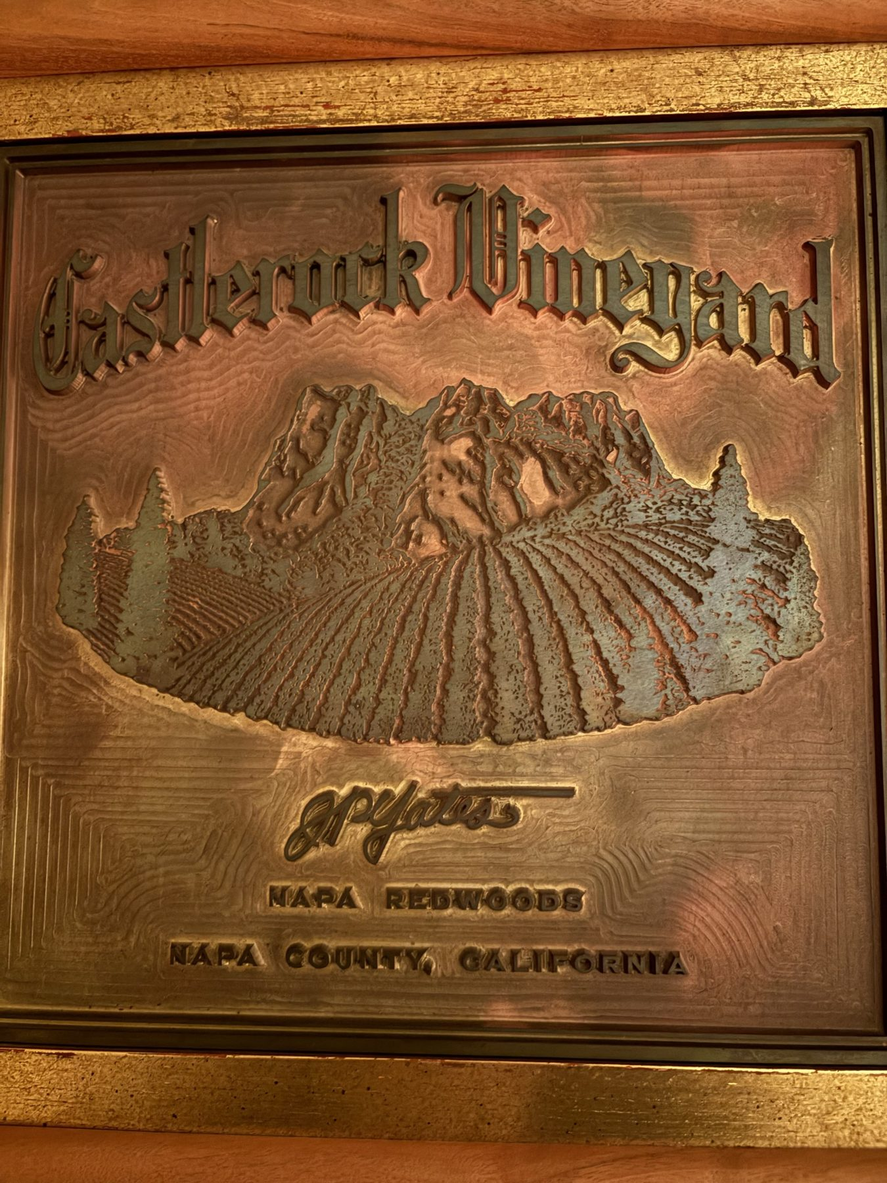
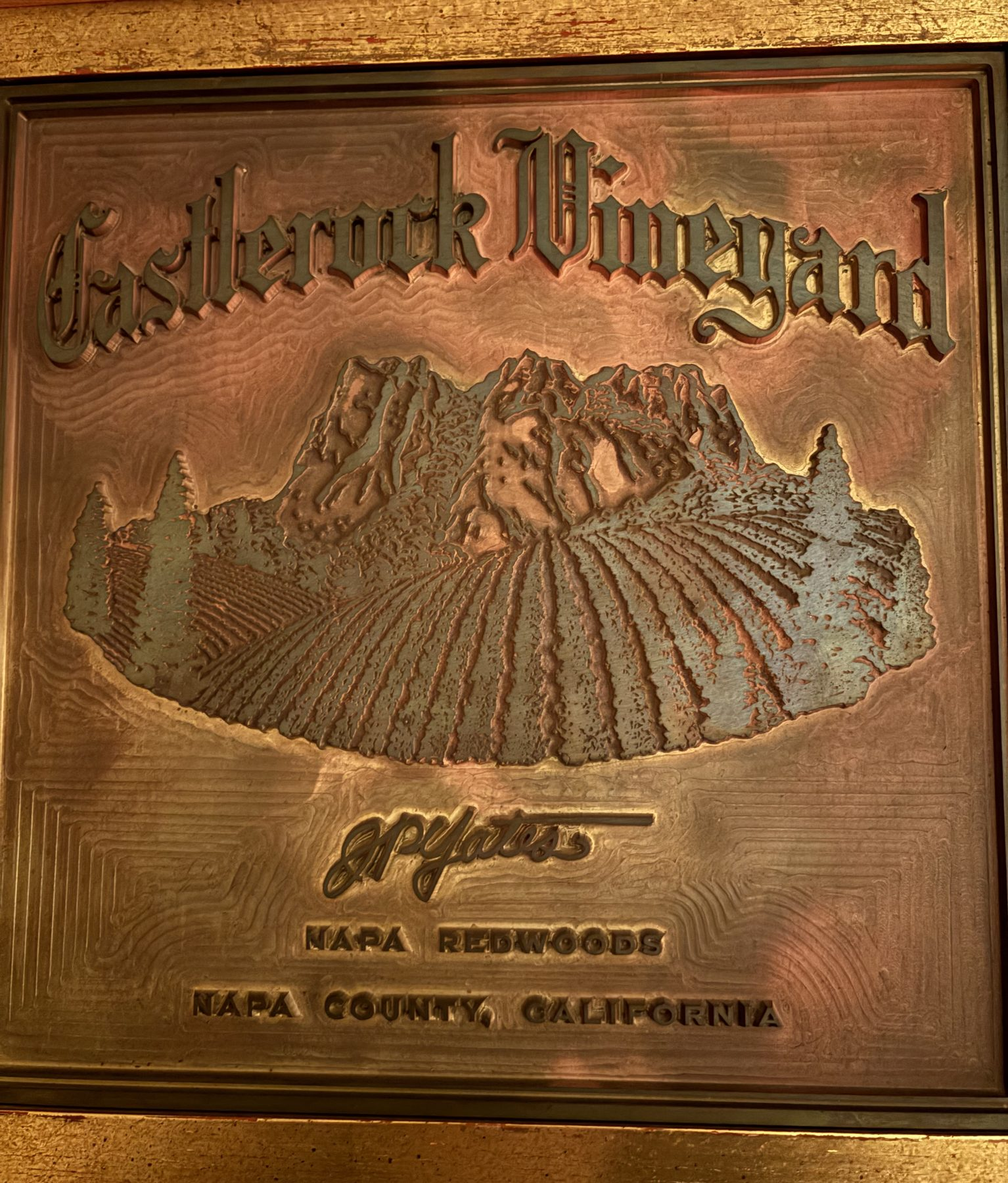
Crop plaque photo and switch to swipe-through gallery

diff --git a/index.html b/index.html
@@ -2,7 +2,7 @@
 <html lang="en">
 <head>
 <meta charset="utf-8">
-<meta name="viewport" content="width=device-width, initial-scale=1">
+<meta name="viewport" content="width=device-width, initial-scale=1, viewport-fit=cover">
 <title>Merlot Jam</title>
 <meta name="theme-color" content="#2a0f1c">
 <style>
@@ -13,62 +13,140 @@
     --gold: #c9a063;
   }
   * { box-sizing: border-box; }
-  html { scroll-behavior: smooth; }
+  html, body { height: 100%; }
   body {
     margin: 0;
+    height: 100dvh;
+    display: flex;
+    flex-direction: column;
+    overflow: hidden;
     background: var(--bg);
     color: var(--ink);
     font-family: "Iowan Old Style", "Palatino Linotype", Palatino, Georgia, serif;
     -webkit-font-smoothing: antialiased;
   }
   header {
+    flex: none;
     text-align: center;
-    padding: 72px 16px 40px;
+    padding: max(20px, env(safe-area-inset-top)) 16px 14px;
   }
   h1 {
     margin: 0;
-    font-size: clamp(2.6rem, 11vw, 5rem);
+    font-size: clamp(1.9rem, 7vw, 2.8rem);
     font-weight: 400;
     letter-spacing: 0.02em;
     line-height: 1;
   }
   header p {
-    margin: 18px 0 0;
+    margin: 8px 0 0;
     color: var(--gold);
-    font-size: 0.85rem;
+    font-size: 0.7rem;
     letter-spacing: 0.32em;
     text-transform: uppercase;
   }
-  main {
-    max-width: 720px;
-    margin: 0 auto;
-    padding: 0 16px 48px;
-    display: grid;
-    gap: 56px;
+
+  .stage { position: relative; flex: 1; min-height: 0; }
+  .slides {
+    height: 100%;
+    display: flex;
+    overflow-x: auto;
+    overflow-y: hidden;
+    scroll-snap-type: x mandatory;
+    scroll-behavior: smooth;
+    overscroll-behavior-x: contain;
+    scrollbar-width: none;
   }
-  figure { margin: 0; }
+  .slides::-webkit-scrollbar { display: none; }
+  .slides:focus-visible { outline: none; }
+  figure {
+    flex: 0 0 100%;
+    height: 100%;
+    margin: 0;
+    padding: 4px 16px;
+    display: flex;
+    align-items: center;
+    justify-content: center;
+    scroll-snap-align: center;
+    scroll-snap-stop: always;
+  }
   figure img {
     display: block;
-    width: 100%;
+    max-width: 100%;
+    max-height: 100%;
+    width: auto;
     height: auto;
-    aspect-ratio: 3 / 4;
-    object-fit: cover;
     border-radius: 6px;
     background: #3a1727;
-    box-shadow: 0 18px 50px rgba(0, 0, 0, 0.45);
+    box-shadow: 0 12px 36px rgba(0, 0, 0, 0.45);
+    -webkit-user-drag: none;
+    user-select: none;
   }
-  figcaption {
-    margin-top: 14px;
-    text-align: center;
+
+  .nav {
+    position: absolute;
+    top: 50%;
+    transform: translateY(-50%);
+    width: 48px;
+    height: 48px;
+    border: 1px solid rgba(201, 160, 99, 0.5);
+    border-radius: 50%;
+    background: rgba(42, 15, 28, 0.6);
+    color: var(--ink);
+    font: inherit;
+    font-size: 1.4rem;
+    line-height: 1;
+    cursor: pointer;
+    display: none;
+    transition: opacity 0.2s, background 0.2s;
+  }
+  .nav:hover { background: rgba(42, 15, 28, 0.9); }
+  .nav:disabled { opacity: 0; pointer-events: none; }
+  .nav.prev { left: 20px; }
+  .nav.next { right: 20px; }
+  @media (hover: hover) and (min-width: 700px) {
+    .nav { display: block; }
+  }
+
+  footer {
+    flex: none;
+    display: flex;
+    flex-direction: column;
+    align-items: center;
+    gap: 10px;
+    padding: 14px 16px max(18px, env(safe-area-inset-bottom));
+  }
+  .count {
     color: var(--muted);
     font-size: 0.8rem;
     letter-spacing: 0.3em;
   }
-  footer {
-    text-align: center;
-    padding: 8px 16px 72px;
-    color: var(--gold);
-    font-size: 1.4rem;
+  .dots { display: flex; gap: 2px; }
+  .dots button {
+    width: 22px;
+    height: 22px;
+    padding: 0;
+    border: 0;
+    background: none;
+    cursor: pointer;
+    display: grid;
+    place-items: center;
+  }
+  .dots button::before {
+    content: "";
+    width: 7px;
+    height: 7px;
+    border-radius: 50%;
+    background: var(--muted);
+    opacity: 0.35;
+    transition: opacity 0.2s, background 0.2s, transform 0.2s;
+  }
+  .dots button[aria-current="true"]::before {
+    background: var(--gold);
+    opacity: 1;
+    transform: scale(1.3);
+  }
+  @media (prefers-reduced-motion: reduce) {
+    .slides { scroll-behavior: auto; }
   }
 </style>
 </head>
@@ -78,33 +156,76 @@
     <p>From vine to jar</p>
   </header>
 
-  <main>
-    <figure>
-      <img src="images/01.jpg" width="1350" height="1800" alt="Embossed copper plaque reading Castlerock Vineyard, Napa County, California">
-      <figcaption>I</figcaption>
-    </figure>
-    <figure>
-      <img src="images/02.jpg" width="1350" height="1800" loading="lazy" alt="Two people picking Merlot grapes from the vines in autumn">
-      <figcaption>II</figcaption>
-    </figure>
-    <figure>
-      <img src="images/03.jpg" width="1350" height="1800" loading="lazy" alt="Washed grapes in a steel bowl and a colander">
-      <figcaption>III</figcaption>
-    </figure>
-    <figure>
-      <img src="images/04.jpg" width="1350" height="1800" loading="lazy" alt="Grapes being crushed in an orange enamel pot with a wooden masher">
-      <figcaption>IV</figcaption>
-    </figure>
-    <figure>
-      <img src="images/05.jpg" width="1350" height="1800" loading="lazy" alt="Crushed grapes being strained through purple-stained cloth">
-      <figcaption>V</figcaption>
-    </figure>
-    <figure>
-      <img src="images/06.jpg" width="1350" height="1800" loading="lazy" alt="A woman stomping grapes in a giant cloth-lined bowl in front of a vineyard">
-      <figcaption>VI</figcaption>
-    </figure>
-  </main>
+  <div class="stage">
+    <div class="slides" id="slides" tabindex="0" aria-label="Photos, swipe to browse">
+      <figure>
+        <img src="images/01.jpg" width="1534" height="1800" alt="Embossed copper plaque reading Castlerock Vineyard, Napa County, California">
+      </figure>
+      <figure>
+        <img src="images/02.jpg" width="1350" height="1800" alt="Two people picking Merlot grapes from the vines in autumn">
+      </figure>
+      <figure>
+        <img src="images/03.jpg" width="1350" height="1800" alt="Washed grapes in a steel bowl and a colander">
+      </figure>
+      <figure>
+        <img src="images/04.jpg" width="1350" height="1800" alt="Grapes being crushed in an orange enamel pot with a wooden masher">
+      </figure>
+      <figure>
+        <img src="images/05.jpg" width="1350" height="1800" alt="Crushed grapes being strained through purple-stained cloth">
+      </figure>
+      <figure>
+        <img src="images/06.jpg" width="1350" height="1800" alt="A woman stomping grapes in a giant cloth-lined bowl in front of a vineyard">
+      </figure>
+    </div>
+    <button class="nav prev" id="prev" aria-label="Previous photo">&#8249;</button>
+    <button class="nav next" id="next" aria-label="Next photo">&#8250;</button>
+  </div>
 
-  <footer>&#10022;</footer>
+  <footer>
+    <div class="count" id="count" aria-live="polite">I / VI</div>
+    <div class="dots" id="dots"></div>
+  </footer>
+
+<script>
+  const slides = document.getElementById('slides');
+  const figures = [...slides.children];
+  const dots = document.getElementById('dots');
+  const count = document.getElementById('count');
+  const prev = document.getElementById('prev');
+  const next = document.getElementById('next');
+  const roman = ['I', 'II', 'III', 'IV', 'V', 'VI', 'VII', 'VIII', 'IX', 'X', 'XI', 'XII'];
+  const label = n => roman[n] || String(n + 1);
+  let current = 0;
+
+  const go = i => {
+    i = Math.max(0, Math.min(figures.length - 1, i));
+    slides.scrollTo({ left: i * slides.clientWidth });
+  };
+
+  figures.forEach((_, i) => {
+    const b = document.createElement('button');
+    b.setAttribute('aria-label', 'Photo ' + (i + 1));
+    b.addEventListener('click', () => go(i));
+    dots.appendChild(b);
+  });
+
+  const update = () => {
+    current = Math.round(slides.scrollLeft / slides.clientWidth);
+    count.textContent = label(current) + ' / ' + label(figures.length - 1);
+    [...dots.children].forEach((d, i) => d.setAttribute('aria-current', i === current));
+    prev.disabled = current === 0;
+    next.disabled = current === figures.length - 1;
+  };
+
+  slides.addEventListener('scroll', update, { passive: true });
+  window.addEventListener('resize', () => slides.scrollTo({ left: current * slides.clientWidth, behavior: 'instant' }));
+  prev.addEventListener('click', () => go(current - 1));
+  next.addEventListener('click', () => go(current + 1));
+  document.addEventListener('keydown', e => {
+    if (e.key === 'ArrowRight') { e.preventDefault(); go(current + 1); }
+    if (e.key === 'ArrowLeft') { e.preventDefault(); go(current - 1); }
+  });
+  update();
+</script>
 </body>
 </html>
